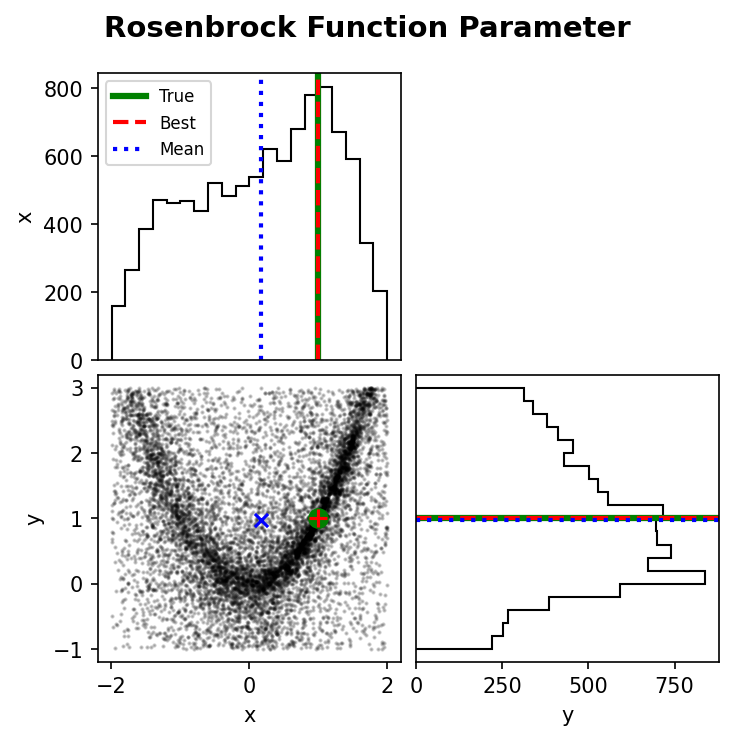
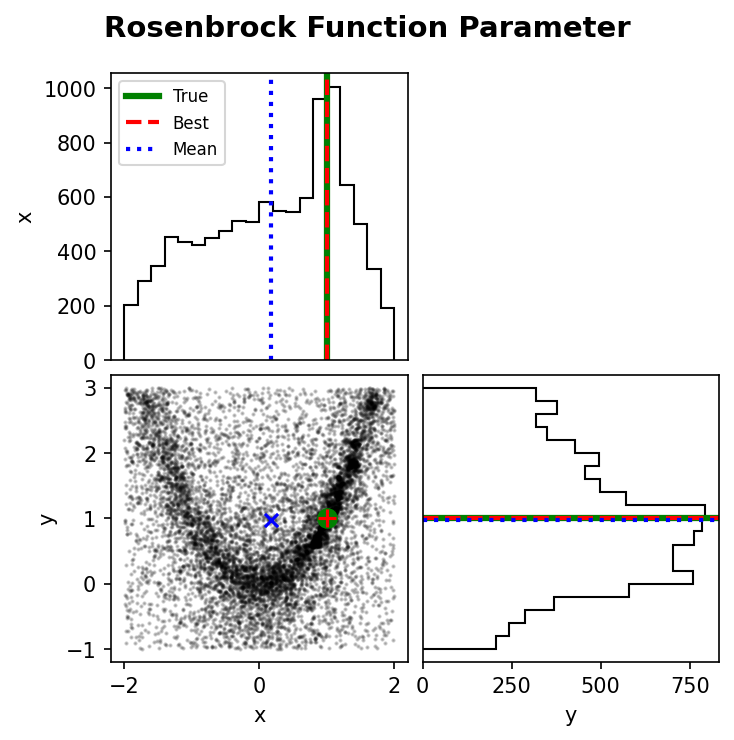
add configparser

diff --git a/config.py b/config.py
@@ -1,15 +1,18 @@
 import numpy as NP
+import configparser
 from function import create_bounds
 
-nr = 10
-ns = 150
 
-ni = 1500
-iter = 100
+config = configparser.ConfigParser()
+config.read('config.txt')
 
-seed = None
+nr   = int(config['SETTINGS']['nr'])
+ns   = int(config['SETTINGS']['ns'])
+ni   = int(config['SETTINGS']['ni'])
+iter = int(config['SETTINGS']['iter'])
 
-
+raw_seed = config['SETTINGS']['seed']
+seed = None if raw_seed == "None" else int(raw_seed)
 
 
 def type_banchmark(type_input=1):

diff --git a/README.md b/README.md
@@ -58,3 +58,17 @@ The columns must strictly follow this order:
 2. Go back to the main repository directory:
    ```bash
    cd ..
+
+### Config Settings  
+1. Open and edit the field data file using nano:
+   ```bash
+   nano config.txt
+
+2. set Param:
+   ```ini
+   [SETTINGS]
+   nr = 10
+   ns = 150
+   ni = 1500
+   iter = 100
+   seed = None
